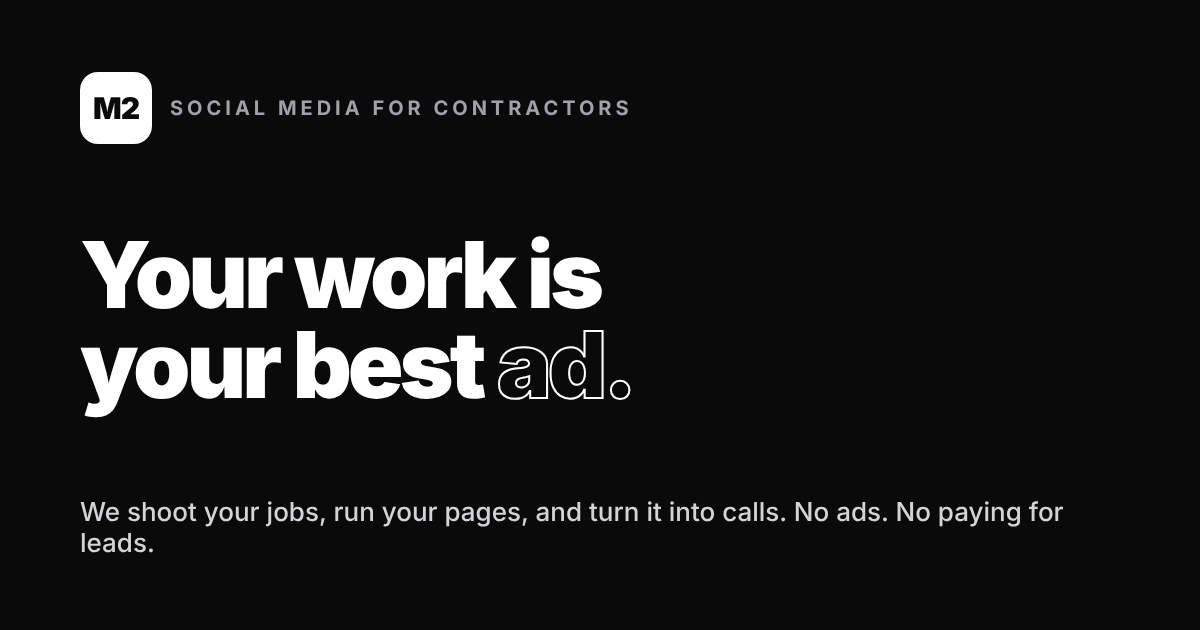
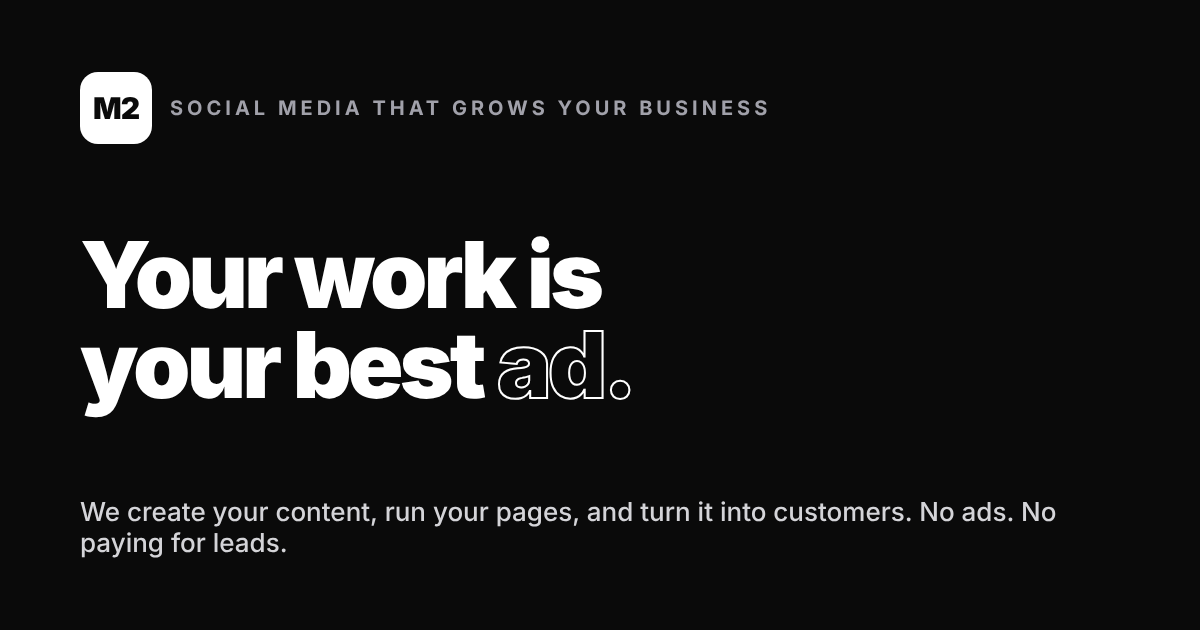
Make landing page copy fit any business, not just contractors
Reword the hero, about, services, process, funnel, comparison, contact
and footer copy (and the share image) around businesses and customers in
general instead of contractors, jobs and crews.

Claude-Session: https://claude.ai/code/session_01KULGpxHiyPxzyULGK7s1rs

Changed region(s): [[0.0617, 0.7841, 0.8942, 0.8746], [0.3083, 0.1508, 0.6475, 0.181]]

diff --git a/landing/public/index.html b/landing/public/index.html
@@ -3,12 +3,12 @@
 <head>
   <meta charset="utf-8">
   <meta name="viewport" content="width=device-width, initial-scale=1, viewport-fit=cover">
-  <title>M2 — Social media that brings contractors work</title>
-  <meta name="description" content="M2 turns contractors' own Facebook and Instagram into a steady source of new jobs. We shoot your work and crew, run your pages, and turn the attention into calls. No ads. No paying for leads.">
+  <title>M2 — Social media that grows your business</title>
+  <meta name="description" content="M2 turns your business's own Facebook and Instagram into a steady source of new customers. We capture your work and your team, run your pages, and turn the attention into leads. No ads. No paying for leads.">
   <meta name="theme-color" content="#0a0a0a">
   <meta property="og:type" content="website">
-  <meta property="og:title" content="M2 — Social media that brings contractors work">
-  <meta property="og:description" content="We shoot your jobs and crew, run your Facebook and Instagram, and turn the attention into calls. No ads. No paying for leads.">
+  <meta property="og:title" content="M2 — Social media that grows your business">
+  <meta property="og:description" content="We capture your work and your team, run your Facebook and Instagram, and turn the attention into new customers. No ads. No paying for leads.">
   <meta property="og:image" content="/og.png">
   <meta name="twitter:card" content="summary_large_image">
   <link rel="icon" href="/favicon.svg" type="image/svg+xml">
@@ -261,27 +261,27 @@
     <div class="hero">
       <div class="wrap hero-grid">
         <div>
-          <span class="eyebrow">Social media for contractors</span>
+          <span class="eyebrow">Social media that grows your business</span>
           <h1>Your work is<br>your best <span class="outline">ad.</span></h1>
-          <p class="lead-p">M2 turns your own Facebook and Instagram into a steady source of new jobs. We shoot your work and your crew, run your pages for you, and turn the attention into calls. No ads. No paying for leads.</p>
+          <p class="lead-p">M2 turns your own Facebook and Instagram into a steady source of new customers. We capture your work and your team, run your pages for you, and turn the attention into leads. No ads. No paying for leads.</p>
           <div class="hero-ctas">
             <a class="btn solid" href="#contact"><svg class="i"><use href="#i-cal"/></svg> Book a 20-minute call</a>
             <a class="btn ghost" href="#process">See how it works <svg class="i"><use href="#i-arrow"/></svg></a>
           </div>
           <div class="pills">
-            <span class="pill"><svg class="i"><use href="#i-camera"/></svg>We come to your jobs</span>
+            <span class="pill"><svg class="i"><use href="#i-camera"/></svg>We create the content</span>
             <span class="pill"><svg class="i"><use href="#i-layout"/></svg>We run your pages</span>
-            <span class="pill"><svg class="i"><use href="#i-phone"/></svg>You take the calls</span>
+            <span class="pill"><svg class="i"><use href="#i-phone"/></svg>You get the customers</span>
           </div>
         </div>
         <div class="phone" aria-hidden="true">
           <div class="notch"></div>
           <div class="screen">
-            <div class="ph-profile"><div class="ph-avatar">YC</div><div><div class="ph-name">Your Company</div><div class="ph-sub">Roofing · Your town</div></div></div>
-            <div class="ph-stats"><div><b>Weekly</b><span>posts</span></div><div><b>Real</b><span>job photos</span></div><div><b>Local</b><span>followers</span></div></div>
+            <div class="ph-profile"><div class="ph-avatar">YB</div><div><div class="ph-name">Your Business</div><div class="ph-sub">Your industry · Your town</div></div></div>
+            <div class="ph-stats"><div><b>Weekly</b><span>posts</span></div><div><b>Real</b><span>photos &amp; video</span></div><div><b>Local</b><span>followers</span></div></div>
             <div class="ph-grid"><div></div><div></div><div></div><div></div><div></div><div></div><div></div><div></div><div></div></div>
-            <div class="ph-dm"><b>Homeowner nearby</b>Saw the roof you just finished down the street. Can you come look at ours?</div>
-            <div class="ph-dm me">Absolutely. Does Thursday morning work?</div>
+            <div class="ph-dm"><b>New customer</b>Saw your post this week. Do you have any openings on Thursday?</div>
+            <div class="ph-dm me">We sure do. What time works best for you?</div>
           </div>
         </div>
       </div>
@@ -292,23 +292,23 @@
       <div class="wrap about-grid">
         <div class="about-copy">
           <span class="eyebrow">About M2</span>
-          <h2 style="margin:14px 0 26px">We make the work you already do bring in more work.</h2>
-          <p>M2 is a social media team built for contractors. Roofers, plumbers, electricians, HVAC, builders and remodelers. People who do great work but don't have time to post about it.</p>
-          <p>When someone gets referred to you, the first thing they do is look you up. If your page hasn't posted in months, that referral goes cold. We fix that. We show up on your jobs, capture your crew and your finished work, and keep your Facebook and Instagram active, professional and local.</p>
-          <p>Then we turn that attention into a funnel, so the people who see your work have a clear, easy way to reach you. You stay on the job. We handle the rest.</p>
+          <h2 style="margin:14px 0 26px">We make the work you already do bring in more business.</h2>
+          <p>M2 is a social media team for business owners who do great work but don't have the time to post about it. Whatever you do, we help more of the right people see it.</p>
+          <p>When someone hears about your business, the first thing they do is look you up. If your page hasn't posted in months, that interest goes cold. We fix that. We capture your work, your team and what makes you different, and keep your Facebook and Instagram active, professional and consistent.</p>
+          <p>Then we turn that attention into a funnel, so the people who see your work have a clear, easy way to reach you. You focus on running your business. We handle the rest.</p>
         </div>
         <div class="about-side">
           <div class="about-card inv">
             <h3>No ads. No paying for leads.</h3>
-            <p>Your page, your content, your customers. Not shared leads sold to five other contractors.</p>
+            <p>Your page, your content, your customers. Not shared leads sold to your competitors.</p>
           </div>
           <div class="about-card">
             <h3>Completely off your plate</h3>
-            <p>We shoot it, write it, post it and keep it consistent, even in your busiest weeks.</p>
+            <p>We create it, write it, post it and keep it consistent, even in your busiest weeks.</p>
           </div>
           <div class="about-card">
-            <h3>Built for your town</h3>
-            <p>Real jobs and a real crew, shown to the homeowners and businesses in the area you actually serve.</p>
+            <h3>Built for your market</h3>
+            <p>Your real work and your real team, shown to the customers you actually want to reach.</p>
           </div>
         </div>
       </div>
@@ -319,13 +319,13 @@
       <div class="wrap">
         <div class="sec-head reveal">
           <div><span class="eyebrow">What we do</span><h2>Everything it takes to turn your page into a pipeline.</h2></div>
-          <p class="lead-p">One team handling the whole thing, from the camera on your job site to the message in your inbox.</p>
+          <p class="lead-p">One team handling the whole thing, from the first photo to the message in your inbox.</p>
         </div>
         <div class="svc-grid">
-          <div class="svc reveal"><div class="ic"><svg class="i"><use href="#i-camera"/></svg></div><h3>On-site content</h3><p>We come to your jobs and shoot photos and video of the work, the before-and-afters, and the crew that does it.</p></div>
+          <div class="svc reveal"><div class="ic"><svg class="i"><use href="#i-camera"/></svg></div><h3>Content creation</h3><p>We shoot photos and video of your work, your products or services, and the team behind it. Real content, made for you.</p></div>
           <div class="svc reveal"><div class="ic"><svg class="i"><use href="#i-layout"/></svg></div><h3>Page management</h3><p>We run your Facebook and Instagram: a steady posting schedule, captions written in your voice, and a page that looks the part.</p></div>
-          <div class="svc reveal"><div class="ic"><svg class="i"><use href="#i-trend"/></svg></div><h3>Local growth</h3><p>We build a following of the people in your service area, the homeowners and businesses who'll actually call.</p></div>
-          <div class="svc reveal"><div class="ic"><svg class="i"><use href="#i-filter"/></svg></div><h3>Lead funnel</h3><p>We turn views into messages and calls, with clear ways to reach you and quick follow-up, so interest becomes booked jobs.</p></div>
+          <div class="svc reveal"><div class="ic"><svg class="i"><use href="#i-trend"/></svg></div><h3>Audience growth</h3><p>We build a following of the people you want to reach, the customers who'll actually buy from you.</p></div>
+          <div class="svc reveal"><div class="ic"><svg class="i"><use href="#i-filter"/></svg></div><h3>Lead funnel</h3><p>We turn views into messages and calls, with clear ways to reach you and quick follow-up, so interest becomes new customers.</p></div>
         </div>
       </div>
     </section>
@@ -334,7 +334,7 @@
     <section id="process" class="process">
       <div class="wrap">
         <div class="sec-head reveal">
-          <div><span class="eyebrow">Our process</span><h2>From your job site to your phone ringing.</h2></div>
+          <div><span class="eyebrow">Our process</span><h2>From your first post to your phone ringing.</h2></div>
           <p class="lead-p">We take your social media, grow it, and turn it into a lead funnel. Here's how it works.</p>
         </div>
         <div class="steps">
@@ -347,19 +347,19 @@
           <div class="step reveal">
             <div class="step-top"><div class="step-num">2</div><div class="step-line"></div></div>
             <h3>Capture the work</h3>
-            <p>We visit your jobs and shoot your crew and your finished work. Real content no stock photo can match.</p>
-            <span class="tag">Real jobs, real crew</span>
+            <p>We capture your business in action: your work, your team and your results. Real content no stock photo can match.</p>
+            <span class="tag">Real work, real people</span>
           </div>
           <div class="step reveal">
             <div class="step-top"><div class="step-num">3</div><div class="step-line"></div></div>
             <h3>Grow it</h3>
-            <p>Consistent posts reach more people in your town every week, and your page becomes the one locals recognize.</p>
-            <span class="tag">Local reach</span>
+            <p>Consistent posts reach more of the right people every week, and your business becomes the one they recognize.</p>
+            <span class="tag">More reach</span>
           </div>
           <div class="step reveal">
             <div class="step-top"><div class="step-num">4</div><div class="step-line"></div></div>
             <h3>Turn it into leads</h3>
-            <p>Views become messages, messages become calls, and calls become booked jobs, without paying for a single lead.</p>
+            <p>Views become messages, messages become calls, and calls become customers, without paying for a single lead.</p>
             <span class="tag">Your lead funnel</span>
           </div>
         </div>
@@ -367,15 +367,15 @@
         <div class="funnel-wrap reveal">
           <div>
             <span class="eyebrow">The funnel</span>
-            <h3>Attention in at the top. Booked jobs out the bottom.</h3>
-            <p>Every post works for you long after it goes up. As your page grows, more of your town sees your work, more of them reach out, and more of them become customers. That's a pipeline you own.</p>
+            <h3>Attention in at the top. New customers out the bottom.</h3>
+            <p>Every post works for you long after it goes up. As your page grows, more people see your work, more of them reach out, and more of them become customers. That's a pipeline you own.</p>
           </div>
-          <div class="funnel" role="img" aria-label="Lead funnel: people in your town see your posts, follow your page, message or call you, get an estimate, and become booked jobs.">
-            <div class="f-row"><span class="lbl"><svg class="i"><use href="#i-users"/></svg><b>Your town sees your work</b></span><span>Posts &amp; video</span></div>
-            <div class="f-row"><span class="lbl"><svg class="i"><use href="#i-trend"/></svg><b>They follow your page</b></span><span>Local audience</span></div>
+          <div class="funnel" role="img" aria-label="Lead funnel: people see your posts, follow your page, message or call you, book a consultation, and become new customers.">
+            <div class="f-row"><span class="lbl"><svg class="i"><use href="#i-users"/></svg><b>People see your work</b></span><span>Posts &amp; video</span></div>
+            <div class="f-row"><span class="lbl"><svg class="i"><use href="#i-trend"/></svg><b>They follow your page</b></span><span>Your audience</span></div>
             <div class="f-row"><span class="lbl"><svg class="i"><use href="#i-msg"/></svg><b>They reach out</b></span><span>Messages &amp; calls</span></div>
-            <div class="f-row"><span class="lbl"><svg class="i"><use href="#i-cal"/></svg><b>Estimates</b></span><span>On your calendar</span></div>
-            <div class="f-row"><span class="lbl"><svg class="i"><use href="#i-hammer"/></svg><b>Booked jobs</b></span></div>
+            <div class="f-row"><span class="lbl"><svg class="i"><use href="#i-cal"/></svg><b>Appointments</b></span><span>On your calendar</span></div>
+            <div class="f-row"><span class="lbl"><svg class="i"><use href="#i-check"/></svg><b>New customers</b></span></div>
           </div>
         </div>
       </div>
@@ -392,8 +392,8 @@
           <div class="cmp them">
             <h3><svg class="i"><use href="#i-x"/></svg>Paying for leads</h3>
             <ul>
-              <li><svg class="i"><use href="#i-x"/></svg>The same lead is sold to several contractors</li>
-              <li><svg class="i"><use href="#i-x"/></svg>You pay whether it turns into a job or not</li>
+              <li><svg class="i"><use href="#i-x"/></svg>The same lead is sold to your competitors</li>
+              <li><svg class="i"><use href="#i-x"/></svg>You pay whether it turns into a sale or not</li>
               <li><svg class="i"><use href="#i-x"/></svg>Stop paying and the leads stop</li>
               <li><svg class="i"><use href="#i-x"/></svg>Nothing that shows off your actual work</li>
             </ul>
@@ -402,9 +402,9 @@
             <h3><svg class="i"><use href="#i-check"/></svg>Growing with M2</h3>
             <ul>
               <li><svg class="i"><use href="#i-check"/></svg>People reach out to you, not a list of five</li>
-              <li><svg class="i"><use href="#i-check"/></svg>Your real jobs and crew do the selling</li>
+              <li><svg class="i"><use href="#i-check"/></svg>Your real work and team do the selling</li>
               <li><svg class="i"><use href="#i-check"/></svg>Your page and audience keep growing over time</li>
-              <li><svg class="i"><use href="#i-check"/></svg>Referrals find an active, professional page</li>
+              <li><svg class="i"><use href="#i-check"/></svg>New customers find an active, professional page</li>
             </ul>
           </div>
         </div>
@@ -416,7 +416,7 @@
       <div class="wrap">
         <div class="sec-head reveal">
           <div><span class="eyebrow">Contact</span><h2>Let's talk about your business.</h2></div>
-          <p class="lead-p">Grab 20 minutes with us, at your shop or on a quick Zoom. We'll show you what we'd post for you and what it would cost.</p>
+          <p class="lead-p">Grab 20 minutes with us, at your place of business or on a quick Zoom. We'll show you what we'd post for you and what it would cost.</p>
         </div>
         <div class="people">
           <div class="person reveal">
@@ -452,7 +452,7 @@
       <div class="wrap reveal">
         <span class="eyebrow">Ready when you are</span>
         <h2>Your next customer is already looking you up.</h2>
-        <p class="lead-p">Let's make sure they find real work from your crew.</p>
+        <p class="lead-p">Let's make sure they like what they find.</p>
         <div class="hero-ctas">
           <a class="btn solid" href="tel:+13252495262"><svg class="i"><use href="#i-phone"/></svg> Call Caden</a>
           <a class="btn ghost" href="tel:+13259987711"><svg class="i"><use href="#i-phone"/></svg> Call Zakry</a>
@@ -464,7 +464,7 @@
   <footer>
     <div class="wrap">
       <a class="brand" href="#top"><span class="logo">M2</span></a>
-      <span>Social media for contractors · © <span id="yr">2026</span> M2</span>
+      <span>Social media that grows your business · © <span id="yr">2026</span> M2</span>
     </div>
   </footer>
 
